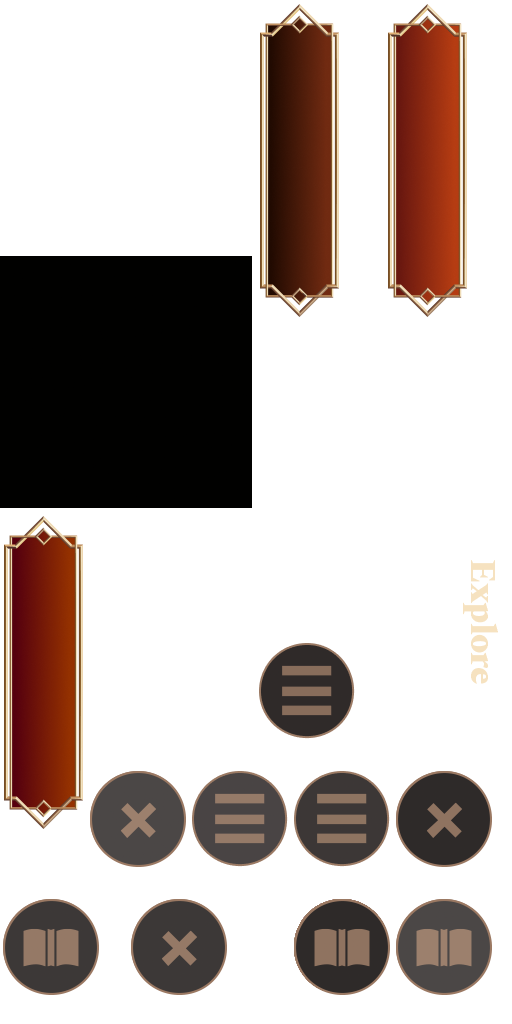
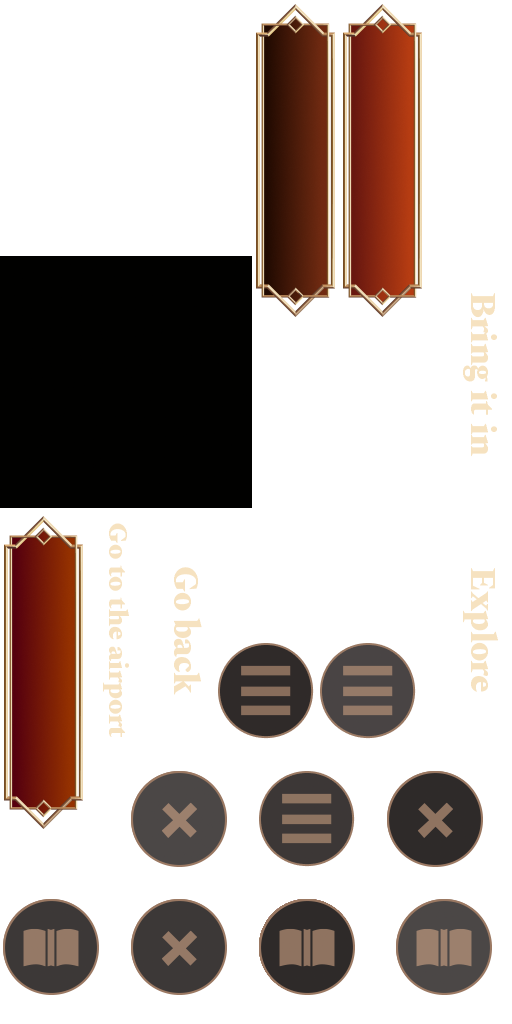
01

diff --git a/scripts/objRefTable.js b/scripts/objRefTable.js
@@ -30,25 +30,23 @@ self.C3_GetObjectRefTable = function () {
 		C3.Plugins.Sprite.Acts.SetOpacity,
 		C3.Plugins.Sprite.Cnds.CompareInstanceVar,
 		C3.Plugins.Sprite.Cnds.IsVisible,
-		C3.Plugins.Mouse.Cnds.IsOverObject,
+		C3.Plugins.Mouse.Cnds.IsButtonDown,
 		C3.Plugins.Sprite.Acts.SetAnimFrame,
 		C3.Plugins.System.Cnds.TriggerOnce,
-		C3.Plugins.Mouse.Cnds.IsButtonDown,
+		C3.Plugins.Mouse.Cnds.IsOverObject,
 		C3.Plugins.System.Cnds.IsGroupActive,
 		C3.Behaviors.Pin.Acts.Unpin,
 		C3.Behaviors.Pin.Acts.PinByProperties,
-		C3.Plugins.Text.Acts.SetY,
-		C3.Plugins.Sprite.Exps.Y,
 		C3.Behaviors.Tween.Acts.StopTweens,
 		C3.Plugins.Sprite.Acts.SetScale,
 		C3.Plugins.System.Cnds.Else,
 		C3.Behaviors.Tween.Cnds.OnTweensFinished,
 		C3.Plugins.Sprite.Cnds.AngleWithin,
+		C3.Plugins.Sprite.Exps.Y,
 		C3.Plugins.Text.Exps.TextHeight,
 		C3.Plugins.Sprite.Acts.SetY,
 		C3.Plugins.Sprite.Exps.Height,
 		C3.Plugins.Sprite.Cnds.CompareY,
-		C3.Plugins.Text.Cnds.CompareText,
 		C3.Plugins.System.Acts.SetLayerVisible
 	];
 };
@@ -81,19 +79,13 @@ self.C3_JsPropNameTable = [
 	{Clickme: 0},
 	{Group: 0},
 	{Button_11: 0},
-	{Text_11: 0},
 	{Button_21: 0},
 	{Button_22: 0},
-	{Text_21: 0},
-	{Text_22: 0},
 	{Button_31: 0},
 	{Button_32: 0},
 	{Button_33: 0},
-	{Text_31: 0},
-	{Text_32: 0},
-	{Text_33: 0},
 	{Apartment: 0},
-	{Text_01: 0}
+	{Text_11: 0}
 ];
 
 self.InstanceType = {
@@ -115,17 +107,11 @@ self.InstanceType = {
 	Transition: class extends self.ISpriteInstance {},
 	Clickme: class extends self.ISpriteInstance {},
 	Button_11: class extends self.ISpriteInstance {},
-	Text_11: class extends self.ITextInstance {},
 	Button_21: class extends self.ISpriteInstance {},
 	Button_22: class extends self.ISpriteInstance {},
-	Text_21: class extends self.ITextInstance {},
-	Text_22: class extends self.ITextInstance {},
 	Button_31: class extends self.ISpriteInstance {},
 	Button_32: class extends self.ISpriteInstance {},
 	Button_33: class extends self.ISpriteInstance {},
-	Text_31: class extends self.ITextInstance {},
-	Text_32: class extends self.ITextInstance {},
-	Text_33: class extends self.ITextInstance {},
 	Apartment: class extends self.ISpriteInstance {},
-	Text_01: class extends self.ISpriteInstance {}
+	Text_11: class extends self.ISpriteInstance {}
 }

diff --git a/scripts/c3runtime.js b/scripts/c3runtime.js
@@ -1424,10 +1424,6 @@ self.C3_ExpressionFuncs = [
 		() => -10,
 		() => "Button_01",
 		() => "Button_02",
-		p => {
-			const n0 = p._GetNode(0);
-			return () => n0.ExpObject();
-		},
 		() => "hsx",
 		() => 1.1,
 		() => "hsy",
@@ -1458,7 +1454,6 @@ self.C3_ExpressionFuncs = [
 			return () => ((((1100 + 30) + n0.ExpObject()) + n1.ExpObject()) + 50);
 		},
 		() => "2",
-		() => "Explore",
 		p => {
 			const n0 = p._GetNode(0);
 			const n1 = p._GetNode(1);
